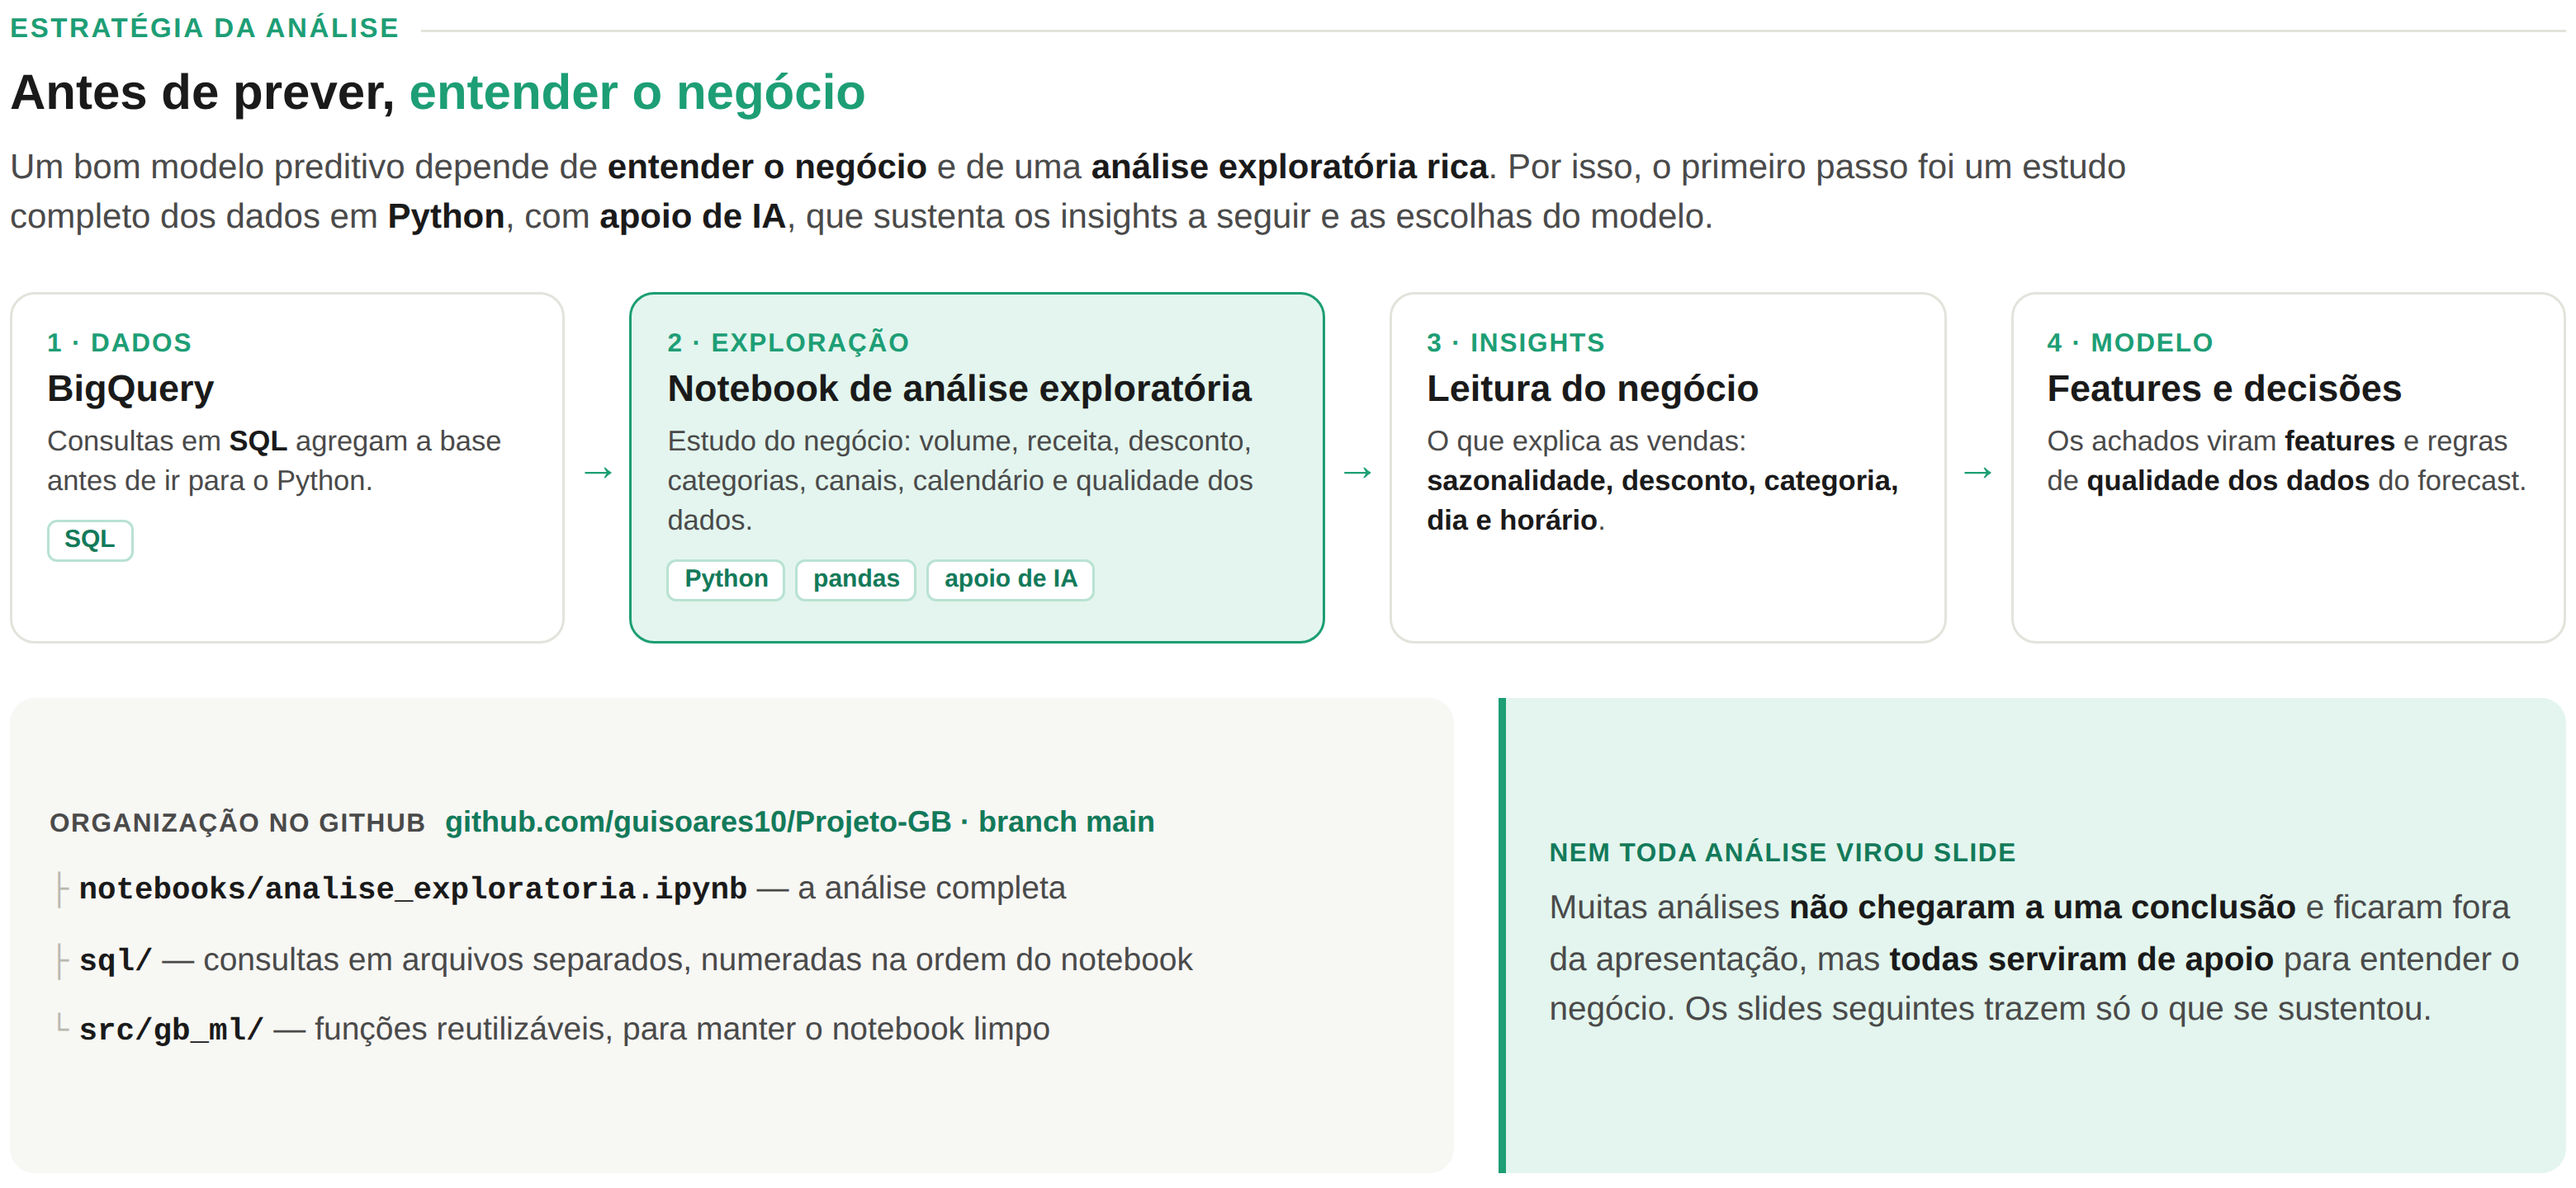
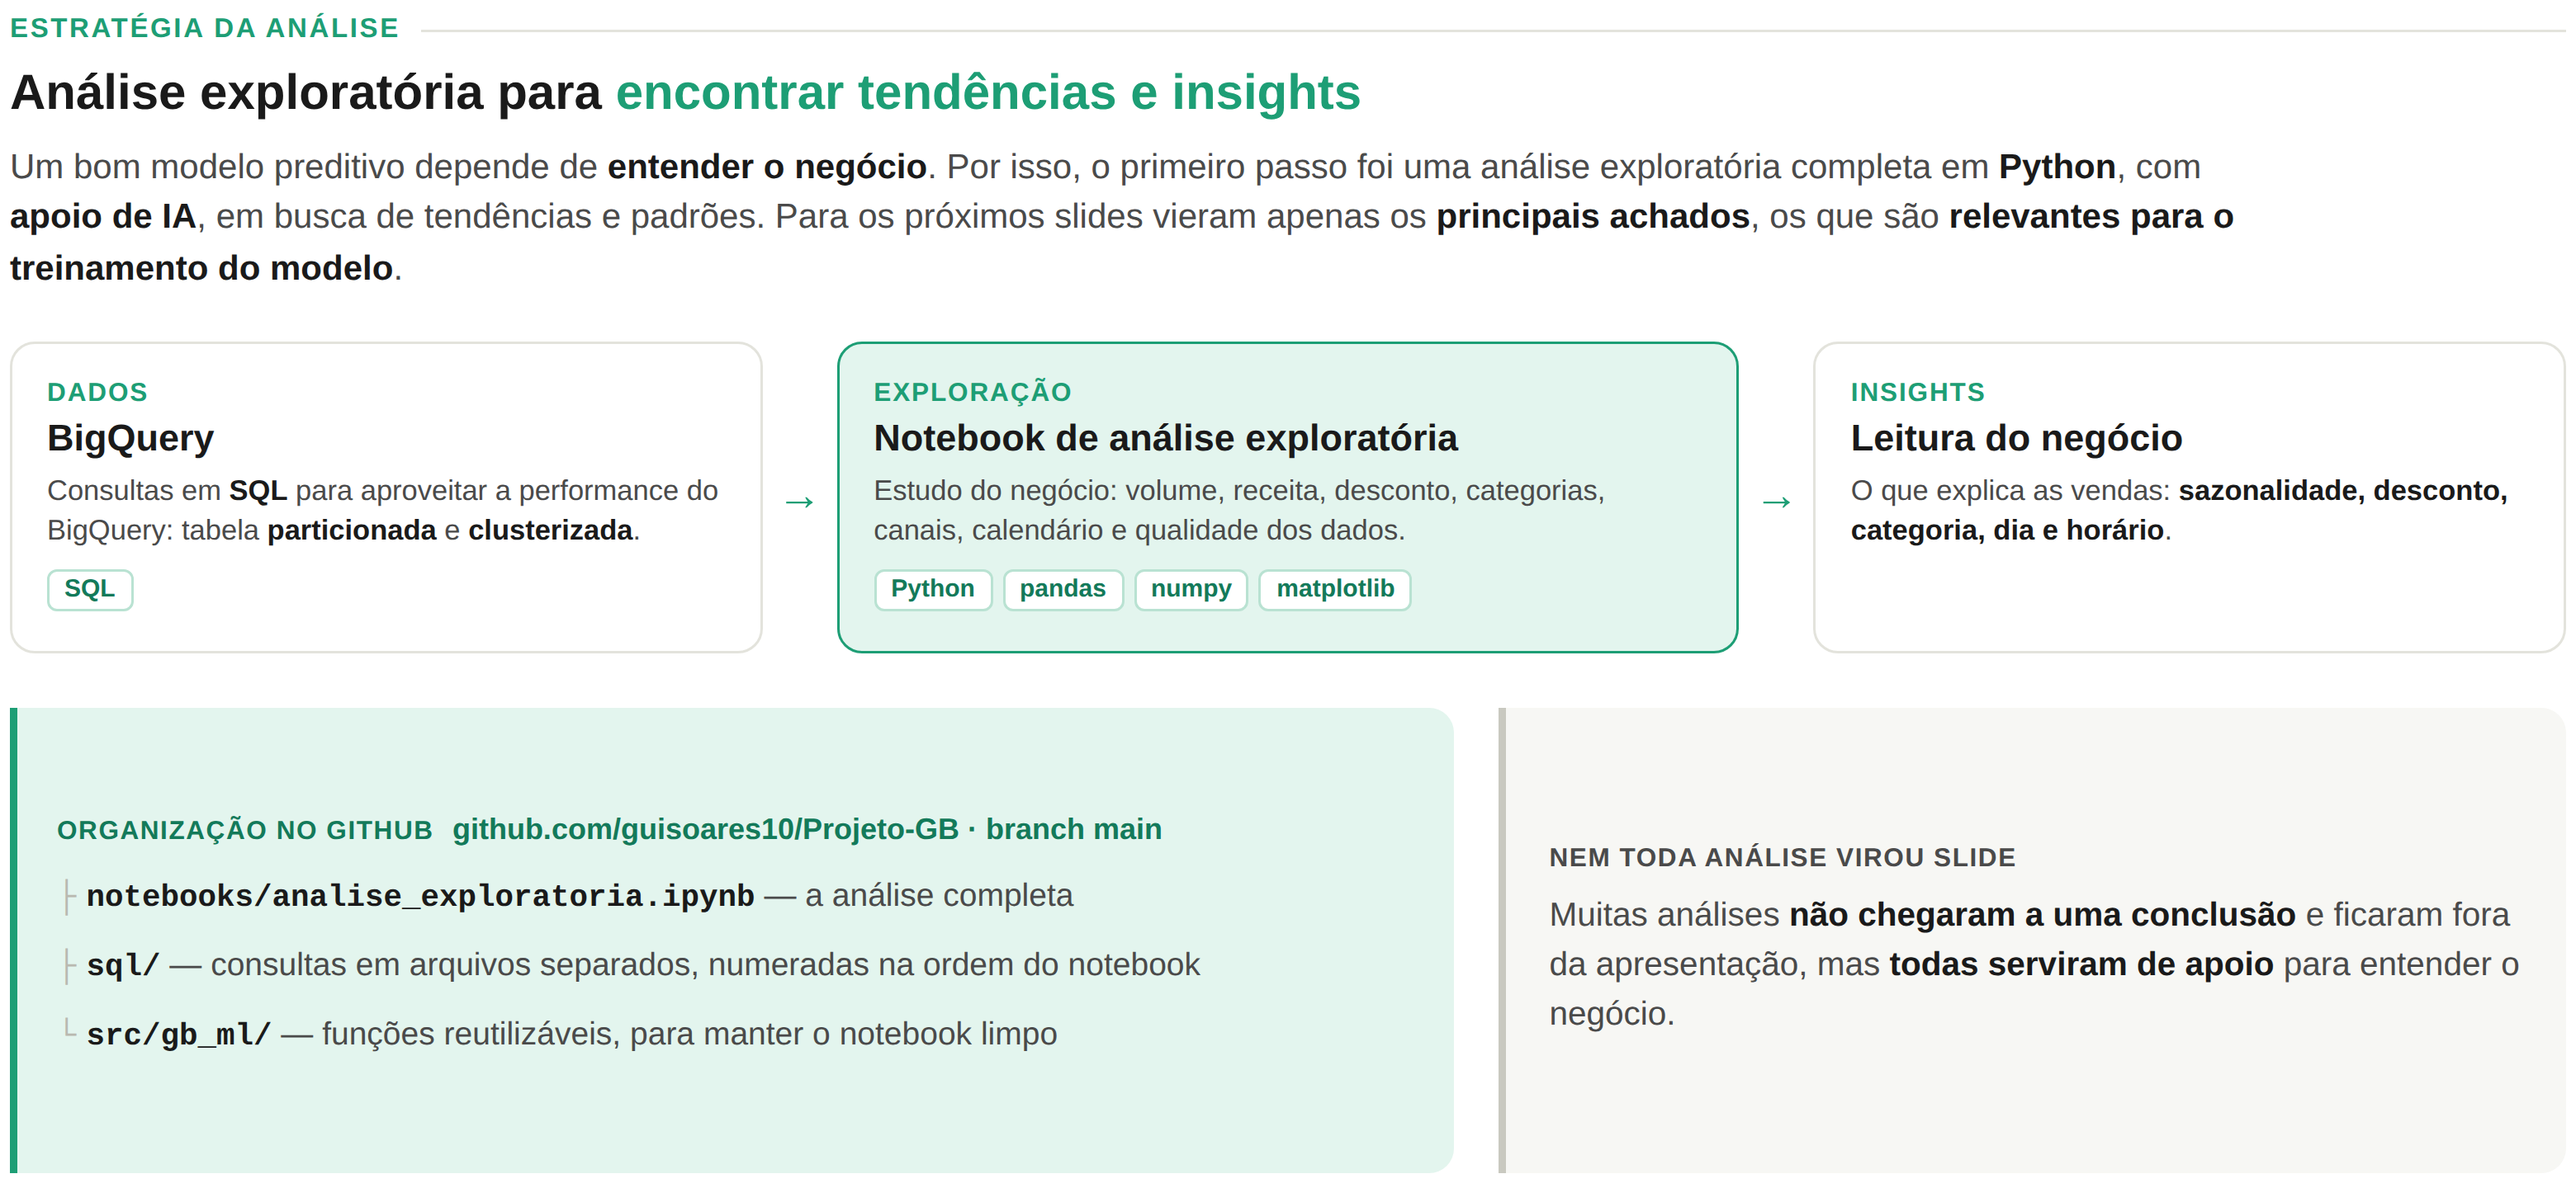
Widget de estratégia: foco na análise exploratória, novo título e cores invertidas
Claude-Session: https://claude.ai/code/session_01NUJZKTcM8cs9QBTcUeuacF

diff --git a/apresentacao/widgets/02_estrategia_eda.html b/apresentacao/widgets/02_estrategia_eda.html
@@ -16,7 +16,7 @@
   .lead { font-size: 14px; color: var(--tinta-2); line-height: 1.45; max-width: 900px; margin-bottom: 20px; }
   .lead b { color: var(--tinta); }
 
-  .fluxo { display: grid; grid-template-columns: 1fr 26px 1.25fr 26px 1fr 26px 1fr; align-items: stretch; }
+  .fluxo { display: grid; grid-template-columns: 1fr 30px 1.2fr 30px 1fr; align-items: stretch; }
   .passo { border: 1px solid var(--linha); border-radius: 10px; padding: 14px 14px 16px; background: #fff; }
   .passo.destaque { border: 1.5px solid var(--verde); background: var(--verde-claro); }
   .num { font-size: 10.5px; font-weight: 700; color: var(--verde); letter-spacing: .06em; text-transform: uppercase; }
@@ -28,49 +28,43 @@
   .seta { display: flex; align-items: center; justify-content: center; color: var(--verde); font-size: 18px; font-weight: 700; }
 
   .baixo { display: grid; grid-template-columns: 1.35fr 1fr; gap: 18px; margin-top: 22px; flex: 1; }
-  .repo { background: #f7f7f4; border-radius: 10px; padding: 12px 16px; display: flex; flex-direction: column; justify-content: center; }
-  .repo-tit { font-size: 10.5px; font-weight: 700; color: var(--tinta-2); text-transform: uppercase; letter-spacing: .05em; margin-bottom: 6px; }
+  .repo { background: var(--verde-claro); border-left: 3px solid var(--verde); border-radius: 0 10px 10px 0; padding: 12px 16px; display: flex; flex-direction: column; justify-content: center; }
+  .repo-tit { font-size: 10.5px; font-weight: 700; color: var(--verde-escuro); text-transform: uppercase; letter-spacing: .05em; margin-bottom: 6px; }
   .repo-tit span { text-transform: none; letter-spacing: 0; color: var(--verde-escuro); font-size: 12px; margin-left: 4px; }
   .arvore { font-size: 13px; line-height: 2.1; color: var(--tinta-2); }
   .arvore code { font-family: "Courier New", monospace; font-size: 12.5px; font-weight: 700; color: var(--tinta); }
   .arvore .r { color: #b9b9b0; font-family: "Courier New", monospace; margin-right: 4px; }
-  .nota { border-left: 3px solid var(--verde); background: var(--verde-claro); border-radius: 0 10px 10px 0; padding: 12px 18px;
+  .nota { border-left: 3px solid #c9c9c0; background: #f7f7f4; border-radius: 0 10px 10px 0; padding: 12px 18px;
           font-size: 13.5px; line-height: 1.5; color: var(--tinta-2); display: flex; flex-direction: column; justify-content: center; }
   .nota b { color: var(--tinta); }
-  .nota .tit { font-size: 10.5px; font-weight: 700; color: var(--verde-escuro); text-transform: uppercase; letter-spacing: .05em; margin-bottom: 4px; }
+  .nota .tit { font-size: 10.5px; font-weight: 700; color: var(--tinta-2); text-transform: uppercase; letter-spacing: .05em; margin-bottom: 4px; }
 </style>
 </head>
 <body>
 <div class="widget">
   <div class="rotulo">Estratégia da análise</div>
-  <h3>Antes de prever, <span>entender o negócio</span></h3>
-  <p class="lead">Um bom modelo preditivo depende de <b>entender o negócio</b> e de uma <b>análise exploratória rica</b>. Por isso, o primeiro passo foi um estudo completo dos dados em <b>Python</b>, com <b>apoio de IA</b>, que sustenta os insights a seguir e as escolhas do modelo.</p>
+  <h3>Análise exploratória para <span>encontrar tendências e insights</span></h3>
+  <p class="lead">Um bom modelo preditivo depende de <b>entender o negócio</b>. Por isso, o primeiro passo foi uma análise exploratória completa em <b>Python</b>, com <b>apoio de IA</b>, em busca de tendências e padrões. Para os próximos slides vieram apenas os <b>principais achados</b>, os que são <b>relevantes para o treinamento do modelo</b>.</p>
 
   <div class="fluxo">
     <div class="passo">
-      <div class="num">1 · Dados</div>
+      <div class="num">Dados</div>
       <h4>BigQuery</h4>
-      <p>Consultas em <b>SQL</b> agregam a base antes de ir para o Python.</p>
+      <p>Consultas em <b>SQL</b> para aproveitar a performance do BigQuery: tabela <b>particionada</b> e <b>clusterizada</b>.</p>
       <div class="tags"><span class="tag">SQL</span></div>
     </div>
     <div class="seta">→</div>
     <div class="passo destaque">
-      <div class="num">2 · Exploração</div>
+      <div class="num">Exploração</div>
       <h4>Notebook de análise exploratória</h4>
       <p>Estudo do negócio: volume, receita, desconto, categorias, canais, calendário e qualidade dos dados.</p>
-      <div class="tags"><span class="tag">Python</span><span class="tag">pandas</span><span class="tag">apoio de IA</span></div>
+      <div class="tags"><span class="tag">Python</span><span class="tag">pandas</span><span class="tag">numpy</span><span class="tag">matplotlib</span></div>
     </div>
     <div class="seta">→</div>
     <div class="passo">
-      <div class="num">3 · Insights</div>
+      <div class="num">Insights</div>
       <h4>Leitura do negócio</h4>
       <p>O que explica as vendas: <b>sazonalidade, desconto, categoria, dia e horário</b>.</p>
-    </div>
-    <div class="seta">→</div>
-    <div class="passo">
-      <div class="num">4 · Modelo</div>
-      <h4>Features e decisões</h4>
-      <p>Os achados viram <b>features</b> e regras de <b>qualidade dos dados</b> do forecast.</p>
     </div>
   </div>
 
@@ -85,7 +79,7 @@
     </div>
     <div class="nota">
       <div class="tit">Nem toda análise virou slide</div>
-      <p>Muitas análises <b>não chegaram a uma conclusão</b> e ficaram fora da apresentação, mas <b>todas serviram de apoio</b> para entender o negócio. Os slides seguintes trazem só o que se sustentou.</p>
+      <p>Muitas análises <b>não chegaram a uma conclusão</b> e ficaram fora da apresentação, mas <b>todas serviram de apoio</b> para entender o negócio.</p>
     </div>
   </div>
 </div>
